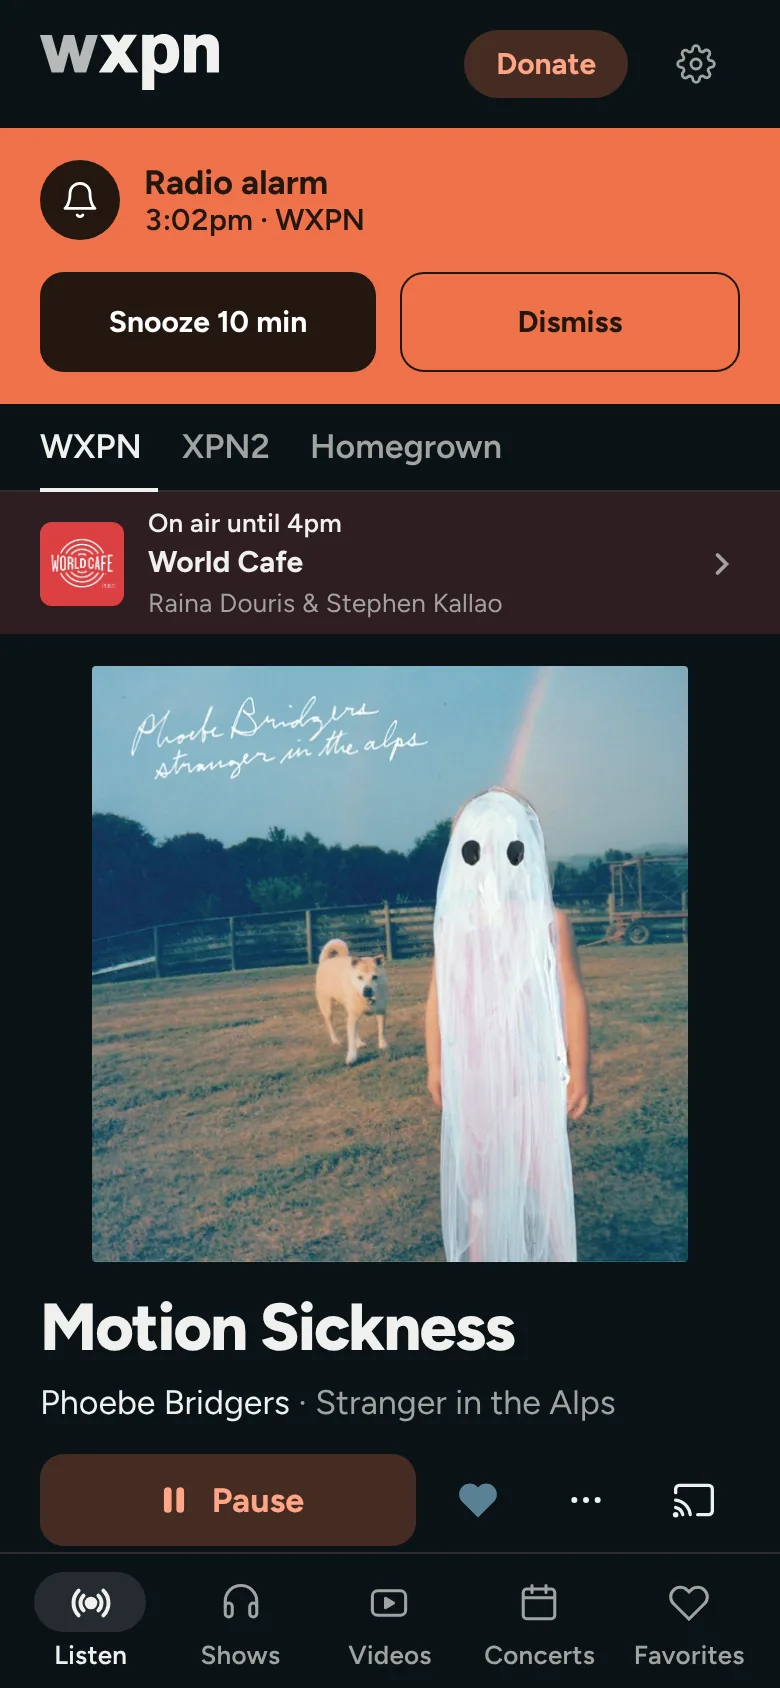
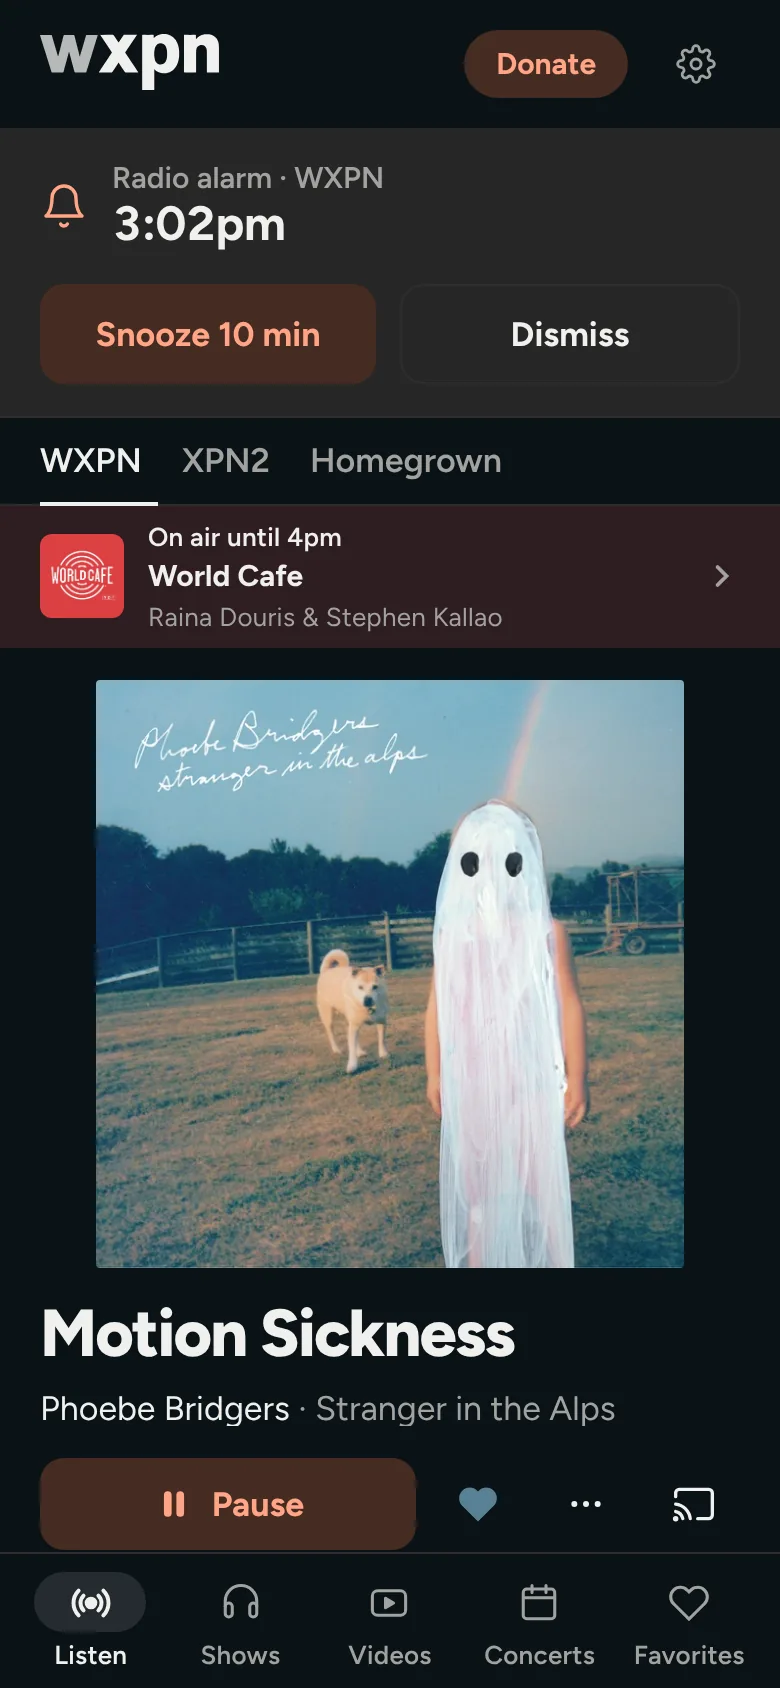
The ringing alarm on the app's own surfaces; host shots back on the screens page
The alarm was a solid orange slab with a black Snooze, unlike anything
else in the app. It is now a white (in dark, raised) band under the
header: Radio alarm · WXPN, small, over the time in large type, the bell
ringing in the action color, Snooze in the same tonal fill as Listen live
and Donate, and Dismiss outlined. The bell stops ringing for reduced
motion.

The screens page's Hosts and A host shots had no images: their entries
were missing from the page's list of shots.

Claude-Session: https://claude.ai/code/session_01ShQkzQ4P55GtAki1K96Y5n

diff --git a/styles/alarm-banner.css b/styles/alarm-banner.css
@@ -2,7 +2,10 @@
    The ringing alarm.
    ------------------------------------------------------------------------ */
 
-/* The wake-up alarm: the one moment the app must be impossible to miss. */
+/* The wake-up alarm: the one moment the app must be impossible to miss.
+   It is on the app's own surfaces, not a slab of color: the time it went
+   off in large type, the bell ringing in the action color, and Snooze in
+   the same tonal fill as Listen live and Donate. */
 .alarm-banner {
   position: sticky;
   top: 0;
@@ -11,10 +14,9 @@
   flex-wrap: wrap;
   align-items: center;
   gap: var(--space-4) var(--space-6);
-  /* The station's orange in both themes, with near-black lettering: every
-     word on it is dark, so nothing on the band is orange-on-orange. */
-  background: var(--action);
-  color: var(--action-ink);
+  background: var(--raised);
+  color: var(--text);
+  border-bottom: 1px solid var(--border);
   padding: var(--space-4) var(--edge-right) var(--space-4) var(--edge-left);
 }
 .alarm-banner-title {
@@ -24,27 +26,26 @@
   gap: var(--space-3);
   min-width: 12ch;
 }
-.alarm-banner-title strong {
-  display: block;
-  font-size: var(--text-body);
-  font-weight: var(--weight-bold);
-}
 .alarm-banner-title small {
   display: block;
+  color: var(--muted);
   font-size: var(--text-secondary);
   font-weight: var(--weight-semibold);
+}
+.alarm-banner-title strong {
+  display: block;
+  font-size: var(--text-title);
+  font-weight: var(--weight-bold);
+  line-height: 1.15;
+  letter-spacing: -0.01em;
   font-variant-numeric: tabular-nums;
 }
-/* The bell sits in a dark disc and rings. */
+/* The bell rings, in the action color. */
 .alarm-bell {
   display: grid;
   place-items: center;
-  width: 40px;
-  height: 40px;
   flex-shrink: 0;
-  border-radius: 50%;
-  background: var(--action-ink);
-  color: #fff;
+  color: var(--donate-ink);
 }
 .alarm-bell .icon {
   transform-origin: 50% 15%;
@@ -65,6 +66,11 @@
     rotate: -14deg;
   }
 }
+@media (prefers-reduced-motion: reduce) {
+  .alarm-bell .icon {
+    animation: none;
+  }
+}
 /* Apart enough that a sleepy thumb meant for Snooze doesn't catch Dismiss. */
 .alarm-banner-actions {
   display: flex;
@@ -74,25 +80,25 @@
   min-height: 46px;
   padding: 0 var(--space-5);
   border-radius: var(--radius-m);
-  font-size: var(--text-secondary);
+  font-size: var(--text-body);
   font-weight: var(--weight-bold);
   white-space: nowrap;
 }
-/* Snooze is the big, easy target: white on near-black. */
+/* Snooze is the big, easy target, in the tonal action colors. */
 .alarm-banner .alarm-snooze {
-  background: var(--action-ink);
-  color: #fff;
+  background: var(--donate-fill);
+  color: var(--donate-ink);
 }
 .alarm-banner .alarm-dismiss {
-  border: 1.5px solid var(--action-ink);
-  color: var(--action-ink);
+  border: 1px solid var(--border);
+  color: var(--text);
 }
 @media (hover: hover) {
   .alarm-banner .alarm-snooze:hover {
-    background: #000;
+    background: color-mix(in srgb, var(--donate-fill), var(--donate-ink) 10%);
   }
   .alarm-banner .alarm-dismiss:hover {
-    background: rgb(36 23 16 / 0.1);
+    background: var(--paper-raised);
   }
 }
 @media (max-width: 767px) {

diff --git a/design/screens/index.html b/design/screens/index.html
@@ -905,7 +905,7 @@
                 width="390"
                 height="844"
                 loading="lazy"
-                alt="The radio alarm ringing: a bell, 3:02pm on WXPN, Snooze 10 min in white on near-black, and Dismiss outlined."
+                alt="The radio alarm ringing, in a white band under the header: a bell in the action color, Radio alarm · WXPN over 3:02pm in large type, then Snooze 10 min in the Donate button’s tonal colors and Dismiss outlined."
               />
             </div>
             <div class="caption"><h3>Alarm ringing</h3></div>
@@ -1134,6 +1134,10 @@
         "phone-fav-shows-light": "img/phone-fav-shows-light.webp",
         "phone-favorites-dark": "img/phone-favorites-dark.webp",
         "phone-favorites-light": "img/phone-favorites-light.webp",
+        "phone-host-dark": "img/phone-host-dark.webp",
+        "phone-host-light": "img/phone-host-light.webp",
+        "phone-hosts-dark": "img/phone-hosts-dark.webp",
+        "phone-hosts-light": "img/phone-hosts-light.webp",
         "phone-listen-dark": "img/phone-listen-dark.webp",
         "phone-listen-light": "img/phone-listen-light.webp",
         "phone-live-dark": "img/phone-live-dark.webp",

diff --git a/components/AlarmBanner.jsx b/components/AlarmBanner.jsx
@@ -11,13 +11,12 @@ export function AlarmBanner({ alarm, onSnooze, onDismiss }) {
     <div className="alarm-banner" role="alert" ref={trackHeight}>
       <span className="alarm-banner-title">
         <span className="alarm-bell" aria-hidden="true">
-          <Icon name="bell" size={20} />
+          <Icon name="bell" size={24} />
         </span>
+        {/* What it is, small, then the time it went off, large. */}
         <span>
-          <strong>Radio alarm</strong>
-          <small>
-            {clockLabel(alarm.time)} · {STREAMS[alarm.streamId]?.label}
-          </small>
+          <small>Radio alarm · {STREAMS[alarm.streamId]?.label}</small>
+          <strong>{clockLabel(alarm.time)}</strong>
         </span>
       </span>
       <span className="alarm-banner-actions">
